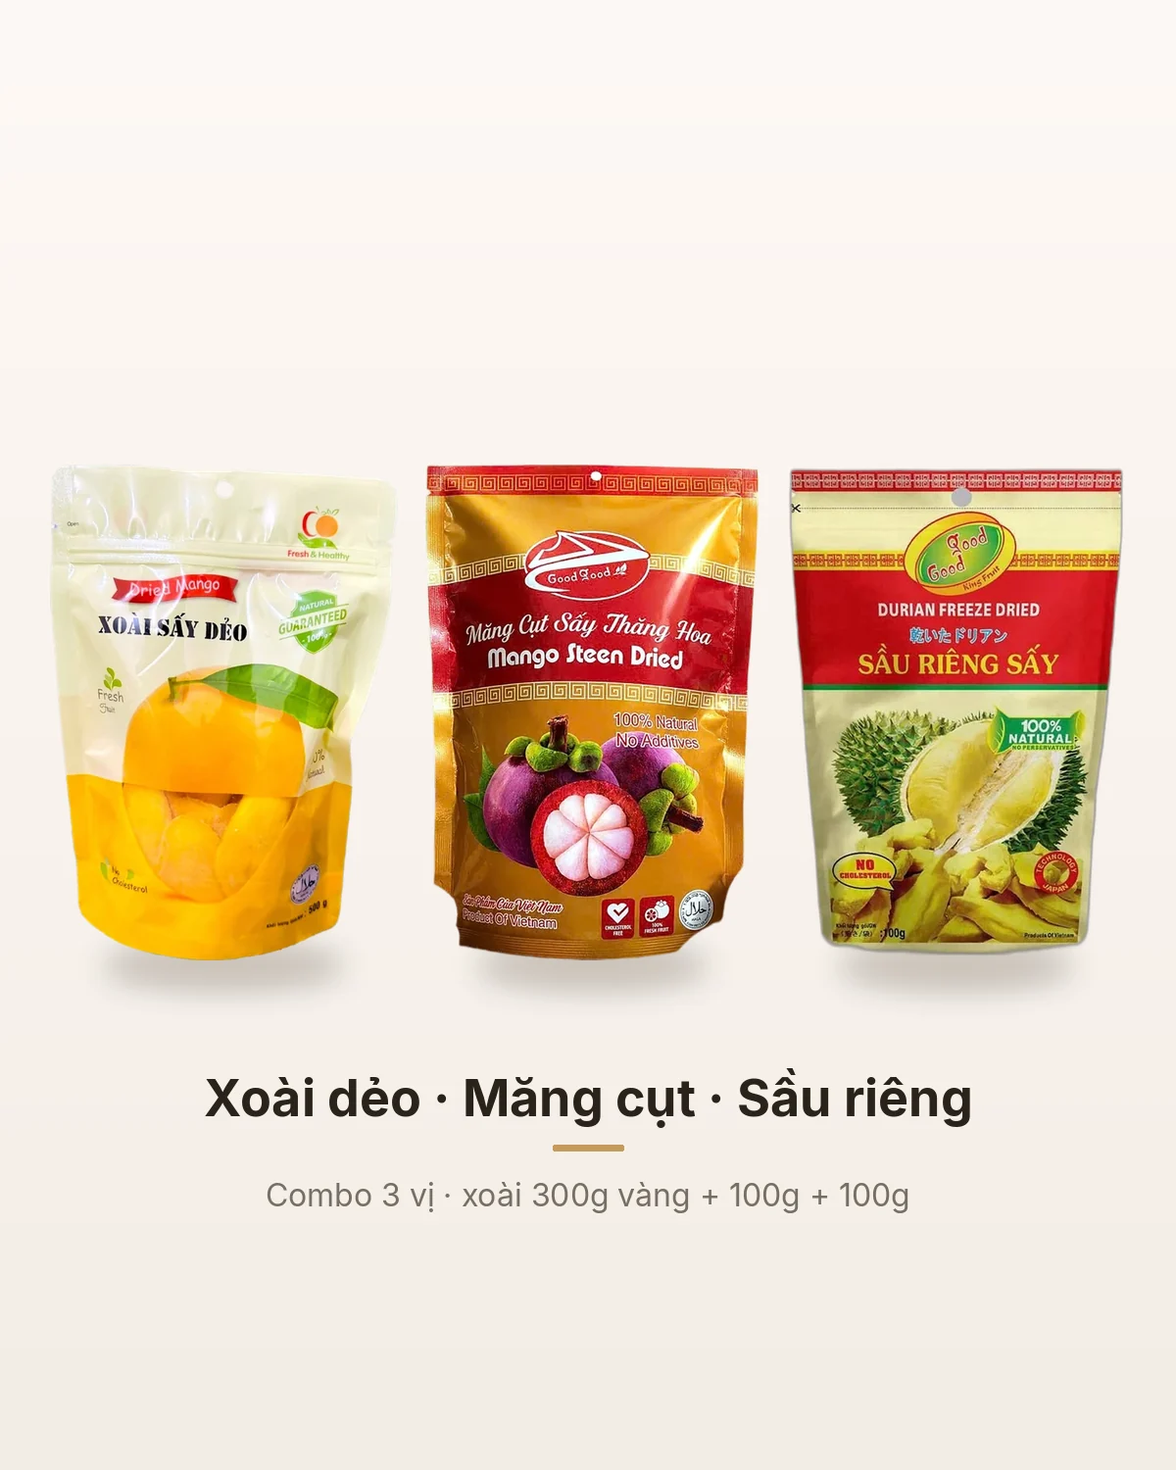
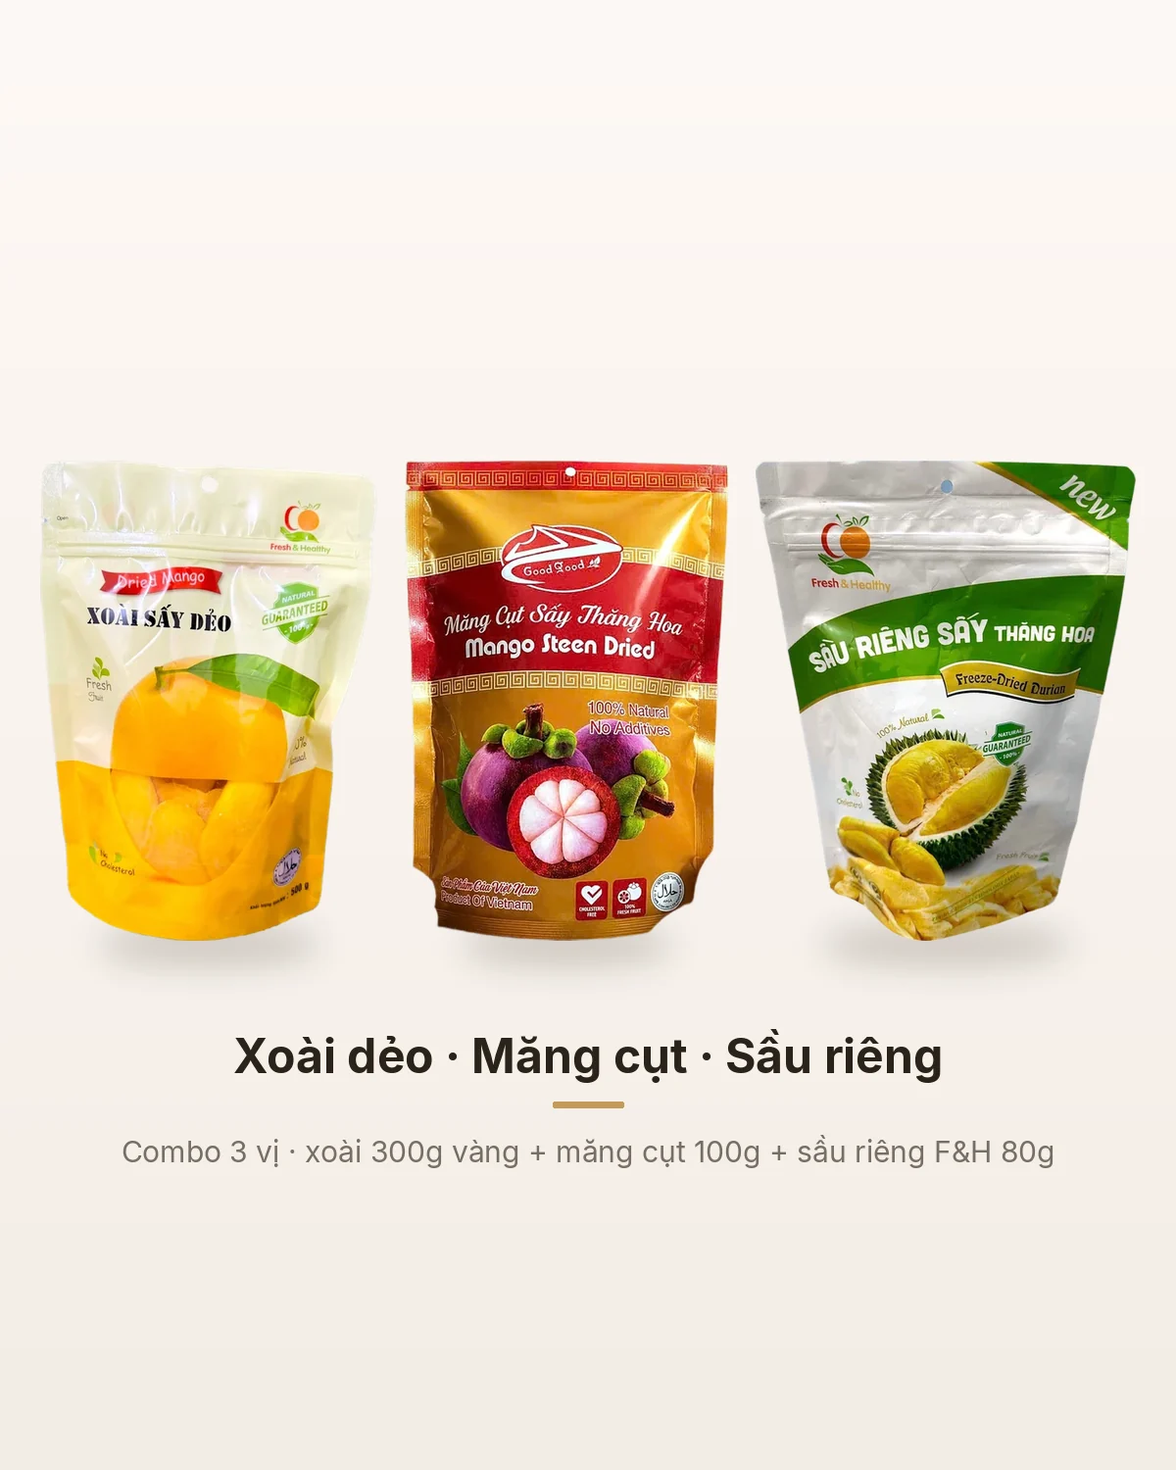
Chốt sầu riêng F&H 80g 90k và tính lại combo chứa túi này
MQ-THSR-080-FH từ 159.000đ xuống 90.000đ. Combo 3 vị xoài + măng cụt dùng túi xanh F&H này: 363/399/413 nghìn. Combo F&H 80g + 2 túi xoài GoodGood còn 239.000đ. GoodGood 110k, Yummy 199k và Cheers+ 149k giữ nguyên.

Changed region(s): [[0.0308, 0.3067, 0.9867, 0.6747], [0.1233, 0.7053, 0.8942, 0.828]]

diff --git a/js/data.js b/js/data.js
@@ -55,7 +55,7 @@ MQ.PRODUCTS = [
  {id:'xoai-say-deo',name:'Xoài sấy dẻo Fresh & Healthy',cat:'deo',fruit:'xoai',flavour:'nguyen',maker:'viza',rank:1,badge:'Bán chạy',def:'MQ-DXO-200-FHX',
   combo:{id:'combo-xoai-say-deo-100g',label:'Combo 6 túi 100g — 259.000đ'},
   related:['combo-xoai-mangcut-saurieng'],
-  relatedNote:'Combo 3 vị xoài dẻo (trắng hoặc vàng) + măng cụt thăng hoa 100g + sầu riêng sấy 100g: 381.000đ (xoài 100g vàng), 417.000đ (xoài 200g) hoặc 431.000đ (xoài 300g).',
+  relatedNote:'Combo 3 vị xoài dẻo (trắng hoặc vàng) + măng cụt thăng hoa 100g + sầu riêng thăng hoa Fresh & Healthy 80g: 363.000đ (xoài 100g vàng), 399.000đ (xoài 200g) hoặc 413.000đ (xoài 300g).',
   pknote:'Cùng khối lượng – cùng giá ở mọi mẫu bao bì. Túi trắng trong và túi kem đáy vàng có ở 200g (89.000đ) và 300g (105.000đ). (Túi 500g cũng có, 149.000đ.) Mẫu Trắng trong: nhãn không in khối lượng, xếp theo cỡ túi.',
   packs:{xanh:{name:'Xanh lá – trắng',c:['#8cc63f','#f7f7f2']},dayxanh:{name:'Trắng – đáy xanh',c:['#f7f7f2','#3fae3a']},vang:{name:'Kem – đáy vàng',c:['#f3ecd2','#f2b705']},trong:{name:'Trắng trong',c:['#ffffff','#f0c64a']},hongcam:{name:'Hồng – cam',c:['#f6cfc4','#ef8a3a']}},
   variants:[VP('xanh','MQ-DXO-100-FHX','100g',100,'fh',49000,'fhx-xanh'),VP('dayxanh','MQ-DXO-100-FHG','100g',100,'fh',49000,'fhx-dayxanh-100r','fhx-dayxanh-100'),VP('hongcam','MQ-DXO-100-FHH','100g',100,'fh',49000,'fhx-hongcam'),VP('vang','MQ-DXO-100-FHV','100g',100,'fh',49000,'fhx-vang-100'),
@@ -103,9 +103,6 @@ MQ.PRODUCTS = [
   short:'Xoài sấy thăng hoa giòn xốp, tan nhẹ trong miệng, giữ màu và hương xoài gần như tươi.',
   long:'Công nghệ sấy thăng hoa rút nước ở nhiệt độ rất thấp, nhờ vậy miếng xoài giữ được màu sắc, hình dáng và hương vị tự nhiên, cho cảm giác giòn tan rất lạ miệng.'},
  {id:'sau-rieng-say-goodgood',name:'Sầu riêng sấy GoodGood',cat:'gion',fruit:'saurieng',flavour:'nguyen',maker:'viza',rank:5,badge:'Cao cấp',
-  combo:{id:'combo-xoai-mangcut-saurieng',label:'Combo 3 vị xoài + măng cụt + sầu riêng — từ 381.000đ'},
-  related:['combo-xoai-mangcut-saurieng'],
-  relatedNote:'Ghép túi này với xoài sấy dẻo Fresh & Healthy và măng cụt thăng hoa 100g: combo 381.000đ / 417.000đ / 431.000đ tùy túi xoài 100g, 200g hoặc 300g.',
   variants:[V('MQ-GSR-100-GG','100g',100,'goodgood',110000,'tsr100g','tsr100g_back')],
   taste:{ngot:5,chua:0,deo:0,gion:4},
   short:'Múi sầu riêng sấy khô giòn, béo thơm, ít mùi hơn sầu riêng tươi — túi GoodGood 100g tiện mang theo.',
@@ -128,7 +125,10 @@ MQ.PRODUCTS = [
   short:'Múi sầu riêng sấy thăng hoa giòn xốp, béo thơm, ít mùi hơn sầu riêng tươi — "vua trái cây" tiện mang theo.',
   long:'Sầu riêng chín được sấy thăng hoa để giữ trọn vị béo ngọt và màu vàng tự nhiên. Miếng sầu riêng giòn xốp, tan trong miệng; túi kín, dễ mang đi du lịch hay làm quà biếu.'},
  {id:'sau-rieng-say-thang-hoa-fh',name:'Sầu riêng sấy thăng hoa Fresh & Healthy',cat:'thanghoa',fruit:'saurieng',flavour:'nguyen',maker:'viza',rank:6,
-  variants:[V('MQ-THSR-080-FH','80g',80,'fh',159000,'fhx-saurieng80')],
+  combo:{id:'combo-xoai-mangcut-saurieng',label:'Combo 3 vị xoài + măng cụt + sầu riêng F&H — từ 363.000đ'},
+  related:['combo-xoai-mangcut-saurieng'],
+  relatedNote:'Ghép túi 80g này với xoài sấy dẻo Fresh & Healthy và măng cụt thăng hoa 100g: combo 363.000đ / 399.000đ / 413.000đ tùy túi xoài 100g, 200g hoặc 300g.',
+  variants:[V('MQ-THSR-080-FH','80g',80,'fh',90000,'fhx-saurieng80')],
   taste:{ngot:5,chua:0,deo:0,gion:5},
   short:'Sầu riêng sấy thăng hoa túi 80g dòng Fresh & Healthy: miếng giòn xốp, béo ngọt, nhãn ghi 100% Natural.',
   long:'Túi trắng xanh lá của Fresh & Healthy (Viza Food), in "Sầu Riêng Sấy Thăng Hoa · Freeze-Dried Durian", 100% Natural, Natural Guaranteed 100%, No Cholesterol. Túi zip 80g, vừa một người ăn vài bữa.',
@@ -167,9 +167,9 @@ MQ.PRODUCTS = [
   long:'Combo đóng sẵn trong túi zip trong, gồm 6 túi. Bên trong là các túi xoài sấy dẻo 100g của Viza Food: nhãn vàng GoodGood hoặc nhãn xanh Fresh & Healthy, cùng một giá.',
   desc:{intro:'Túi 100g là cỡ khách hỏi nhiều nhất: vừa một lần ăn, bỏ túi xách gọn, chia cho đồng nghiệp cũng tiện. Nên chúng tôi gom thành combo 6 túi, tính ra chừng 43.000đ một túi. Nhãn vàng GoodGood hay nhãn xanh Fresh & Healthy đều cùng giá, bạn thích màu nào chọn màu đó, hoặc trộn mỗi thứ vài túi để cả nhà nếm thử rồi tự chọn loại mình mê.',sec:[{k:'huong',h:'Trong combo có gì',p:['6 túi xoài sấy dẻo 100g đúng nhãn bạn chọn, đóng trong túi zip trong. Giá combo đã giảm sẵn nên không cộng thêm giảm theo đơn, nhưng vẫn được tính vào mức đơn để miễn phí giao và giảm cho các món lẻ khác.']},{k:'spec',h:'Thông tin combo',spec:[['Gồm','6 túi xoài sấy dẻo 100g'],['Nhãn','Vàng · GoodGood hoặc Xanh · Fresh & Healthy (Viza Food), có thể trộn'],['Giá','259.000đ / combo 6 túi (≈ 43.000đ / túi)'],['Đóng gói','Túi zip trong'],['Ngày sản xuất & HSD','In trên từng túi']]},{k:'qua',h:'Hợp để làm gì',p:['Chia quà nhỏ cho đồng nghiệp, bạn học; để sẵn trong ngăn bàn làm việc; mang theo khi đi du lịch. Mỗi túi một lần ăn, mở ra là vừa, không lo ăn dở để lâu.']}]}},
  {id:'mang-cut-say-thang-hoa-goodgood',name:'Măng cụt sấy thăng hoa GoodGood',cat:'thanghoa',fruit:'mangcut',flavour:'nguyen',maker:'viza',rank:6,badge:'Mới',
-  combo:{id:'combo-xoai-mangcut-saurieng',label:'Combo 3 vị xoài + măng cụt + sầu riêng — từ 381.000đ'},
+  combo:{id:'combo-xoai-mangcut-saurieng',label:'Combo 3 vị xoài + măng cụt + sầu riêng F&H — từ 363.000đ'},
   related:['combo-xoai-mangcut-saurieng'],
-  relatedNote:'Ghép túi này với xoài sấy dẻo Fresh & Healthy và sầu riêng sấy 100g: combo 381.000đ / 417.000đ / 431.000đ tùy túi xoài 100g, 200g hoặc 300g.',
+  relatedNote:'Ghép túi này với xoài sấy dẻo Fresh & Healthy và sầu riêng thăng hoa Fresh & Healthy 80g: combo 363.000đ / 399.000đ / 413.000đ tùy túi xoài 100g, 200g hoặc 300g.',
   variants:[V('MQ-THMC-100-GG','100g',100,'goodgood',269000,'ggx-mangcut','ggx-mangcut-poster')],
   taste:{ngot:4,chua:3,deo:0,gion:5},
   short:'Múi măng cụt trắng sấy thăng hoa giòn xốp, chua ngọt tự nhiên — túi vàng đỏ 100g dòng GoodGood, ghi 100% Natural · No Additives.',
@@ -705,9 +705,9 @@ MQ.PRODUCTS = [
   short:"Hạt dẻ cười Viza Food 100g + hạt sen sấy giòn Viza Food 100g + sầu riêng sấy GoodGood 100g (túi đỏ). 271.000đ (mua lẻ 109.000đ + 85.000đ + 110.000đ = 304.000đ).",
   long:"Hai hộp giấy hạt in tranh và một túi sầu riêng sấy: một phần quà bàn trà gọn, đẹp. Giá combo 271.000đ, tiết kiệm 33.000đ so với mua lẻ."},
 {id:"vz-mix-cb3-sr-xoai",mixed:true,comboOf:["MQ-THSR-080-FH","MQ-DXM-200-GG","MQ-DXO-200-GG"],related:["sau-rieng-say-thang-hoa-fh","xoai-say-deo-muoi-ot-goodgood","xoai-say-deo-goodgood"],fit45:["products/vz/vz-mix-cb3sx-anh.webp"],photos:[["products/fhx-saurieng80","Sầu riêng F&H","Túi sầu riêng sấy thăng hoa Fresh & Healthy 80g"],["products/ggx-mo200","Muối ớt","Túi xoài sấy dẻo muối ớt GoodGood 200g"],["products/ggx-200","Xoài dẻo","Túi xoài sấy dẻo GoodGood 200g"]],name:"Combo sầu riêng thăng hoa Fresh & Healthy 80g + 2 túi xoài GoodGood 200g",cat:'thanghoa',fruit:'mix',flavour:'mix',maker:'viza',rank:69,badge:"Combo",
-  variants:[V("VZ-MIX-CB3SX-480","80g + 200g + 200g",480,'fh',300000,'vz/vz-mix-cb3sx-anh.webp')],
-  short:"Sầu riêng sấy thăng hoa Fresh & Healthy 80g + xoài sấy dẻo muối ớt GoodGood 200g + xoài sấy dẻo GoodGood 200g. 300.000đ (mua lẻ 159.000đ + 89.000đ + 89.000đ = 337.000đ).",
-  long:"Một túi sầu riêng thăng hoa giòn xốp làm điểm nhấn, thêm hai túi xoài dẻo GoodGood: một muối ớt, một nguyên vị. Gói sẵn là thành quà. Giá combo 300.000đ, tiết kiệm 37.000đ so với mua lẻ."},
+  variants:[V("VZ-MIX-CB3SX-480","80g + 200g + 200g",480,'fh',239000,'vz/vz-mix-cb3sx-anh.webp')],
+  short:"Sầu riêng sấy thăng hoa Fresh & Healthy 80g + xoài sấy dẻo muối ớt GoodGood 200g + xoài sấy dẻo GoodGood 200g. 239.000đ (mua lẻ 90.000đ + 89.000đ + 89.000đ = 268.000đ).",
+  long:"Một túi sầu riêng thăng hoa giòn xốp làm điểm nhấn, thêm hai túi xoài dẻo GoodGood: một muối ớt, một nguyên vị. Gói sẵn là thành quà. Giá combo 239.000đ, tiết kiệm 29.000đ so với mua lẻ."},
 {id:"vz-mix-cb-ch-mit",mixed:true,comboOf:["MQ-THSR-110-CH","MQ-GMI-300-FH"],related:["sau-rieng-say-thang-hoa-cheers","mit-say-gion"],fit45:["products/vz/vz-mix-cb2cm-anh.webp"],photos:[["products/chx-saurieng110","Sầu riêng Cheers+","Túi sầu riêng sấy thăng hoa Cheers+ 105g"],["products/fhx-mit300","Mít sấy","Túi mít sấy giòn Fresh & Healthy 200g"]],name:"Combo sầu riêng thăng hoa Cheers+ 105g + mít sấy giòn 200g",cat:'thanghoa',fruit:'mix',flavour:'nguyen',maker:'viza',rank:70,badge:"Combo",
   variants:[V("VZ-MIX-CB2CM-305","105g + 200g",305,'cheers',210000,'vz/vz-mix-cb2cm-anh.webp')],
   short:"1 túi sầu riêng sấy thăng hoa Cheers+ 105g + 1 túi mít sấy giòn Fresh & Healthy 200g. 210.000đ (mua lẻ 149.000đ + 74.000đ = 223.000đ).",
@@ -716,17 +716,17 @@ MQ.PRODUCTS = [
   variants:[V("VZ-MIX-CB4KF-500","100g + 100g + 200g + 100g",500,'fh',241000,'vz/vz-mix-cb4kf-anh.webp')],
   short:"Sầu riêng sấy KITA 100g + xoài sấy dẻo Fresh & Healthy 100g (túi kem đáy vàng) + mít sấy giòn Fresh & Healthy 200g + xoài sấy dẻo muối ớt Fresh & Healthy 100g (túi đỏ). 241.000đ (mua lẻ 99.000đ + 49.000đ + 74.000đ + 49.000đ = 271.000đ).",
   long:"Bốn túi bốn kiểu: sầu riêng sấy giòn béo, xoài dẻo ngọt, mít giòn thơm và xoài muối ớt mặn cay. Đủ cho cả nhà chia nhau hoặc mang đi chơi. Giá combo 241.000đ, tiết kiệm 30.000đ so với mua lẻ."},
- {id:'combo-xoai-mangcut-saurieng',mixed:true,comboOf:['MQ-DXO-200-FHV','MQ-THMC-100-GG','MQ-GSR-100-GG'],related:['xoai-say-deo','mang-cut-say-thang-hoa-goodgood','sau-rieng-say-goodgood'],
+ {id:'combo-xoai-mangcut-saurieng',mixed:true,comboOf:['MQ-DXO-200-FHV','MQ-THMC-100-GG','MQ-THSR-080-FH'],related:['xoai-say-deo','mang-cut-say-thang-hoa-goodgood','sau-rieng-say-thang-hoa-fh'],
   fit45:['products/vz/vz-mix-cb3xms-3tui.webp','products/vz/vz-mix-cb3xms-200t-3tui.webp','products/vz/vz-mix-cb3xms-100-3tui.webp','products/vz/vz-mix-cb3xms-300v-3tui.webp','products/vz/vz-mix-cb3xms-300t-3tui.webp'],
-  photos:[['products/fhx-vang','Xoài vàng','Túi xoài sấy dẻo Fresh & Healthy, túi kem đáy vàng'],['products/fhx-vang-100-45.jpg','Xoài 100g','Túi xoài sấy dẻo Fresh & Healthy 100g, túi kem đáy vàng'],['products/fhx-trong','Xoài trắng','Túi xoài sấy dẻo Fresh & Healthy, túi trắng trong'],['products/ggx-mangcut','Măng cụt','Túi măng cụt sấy thăng hoa GoodGood 100g'],['products/tsr100g','Sầu riêng','Túi sầu riêng sấy GoodGood 100g']],
+  photos:[['products/fhx-vang','Xoài vàng','Túi xoài sấy dẻo Fresh & Healthy, túi kem đáy vàng'],['products/fhx-vang-100-45.jpg','Xoài 100g','Túi xoài sấy dẻo Fresh & Healthy 100g, túi kem đáy vàng'],['products/fhx-trong','Xoài trắng','Túi xoài sấy dẻo Fresh & Healthy, túi trắng trong'],['products/ggx-mangcut','Măng cụt','Túi măng cụt sấy thăng hoa GoodGood 100g'],['products/fhx-saurieng80','Sầu riêng F&H','Túi sầu riêng sấy thăng hoa Fresh & Healthy 80g, túi xanh có chữ new']],
   packs:{vang:{name:'Xoài túi vàng',c:['#f3ecd2','#f2b705']},trong:{name:'Xoài túi trắng',c:['#ffffff','#f0c64a']}},
-  pknote:'Cùng khối lượng xoài thì túi trắng và túi vàng cùng giá. Túi xoài 100g chỉ có mẫu vàng. Măng cụt thăng hoa 100g và sầu riêng sấy 100g giữ nguyên trong mọi cách ghép. Không gồm túi xoài 500g.',
-  name:'Combo 3 vị: xoài sấy dẻo + măng cụt thăng hoa 100g + sầu riêng sấy 100g',cat:'deo',fruit:'mix',flavour:'nguyen',maker:'viza',rank:60,badge:'Combo',def:'MQ-CB3-XMS-200-V',
-  variants:[VP('vang','MQ-CB3-XMS-200-V','200g + 100g + 100g',400,'fh',417000,'vz/vz-mix-cb3xms-3tui.webp'),VP('trong','MQ-CB3-XMS-200-T','200g + 100g + 100g',400,'fh',417000,'vz/vz-mix-cb3xms-200t-3tui.webp'),
-    VP('vang','MQ-CB3-XMS-100','100g + 100g + 100g',300,'fh',381000,'vz/vz-mix-cb3xms-100-3tui.webp'),
-    VP('vang','MQ-CB3-XMS-300-V','300g + 100g + 100g',500,'fh',431000,'vz/vz-mix-cb3xms-300v-3tui.webp'),VP('trong','MQ-CB3-XMS-300-T','300g + 100g + 100g',500,'fh',431000,'vz/vz-mix-cb3xms-300t-3tui.webp')],
-  short:'Xoài sấy dẻo Fresh & Healthy + măng cụt sấy thăng hoa GoodGood 100g + sầu riêng sấy GoodGood 100g. Mặc định xoài 200g (trắng hoặc vàng): 417.000đ (mua lẻ 89.000đ + 269.000đ + 110.000đ = 468.000đ, tiết kiệm 51.000đ). Xoài 100g vàng: 381.000đ (mua lẻ 428.000đ, tiết kiệm 47.000đ). Xoài 300g trắng hoặc vàng: 431.000đ (mua lẻ 484.000đ, tiết kiệm 53.000đ).',
-  long:'Ba túi nguyên bao bì: xoài sấy dẻo Fresh & Healthy (chọn túi trắng hoặc vàng ở 200g và 300g; túi 100g chỉ có mẫu vàng), măng cụt sấy thăng hoa GoodGood 100g và sầu riêng sấy GoodGood 100g. Giá combo = tổng giá lẻ của đúng ba túi × 0,89, làm tròn 1.000đ. Xoài 200g: mua lẻ 468.000đ, giá combo 417.000đ, tiết kiệm 51.000đ. Xoài 100g vàng: mua lẻ 428.000đ, giá combo 381.000đ, tiết kiệm 47.000đ. Xoài 300g: mua lẻ 484.000đ, giá combo 431.000đ, tiết kiệm 53.000đ. Túi trắng và túi vàng cùng khối lượng cùng giá. Không dùng túi xoài 500g trong combo này.'},
+  pknote:'Cùng khối lượng xoài thì túi trắng và túi vàng cùng giá. Túi xoài 100g chỉ có mẫu vàng. Măng cụt thăng hoa GoodGood 100g và sầu riêng thăng hoa Fresh & Healthy 80g giữ nguyên trong mọi cách ghép. Không gồm túi xoài 500g, không gồm sầu riêng GoodGood.',
+  name:'Combo 3 vị: xoài sấy dẻo + măng cụt thăng hoa 100g + sầu riêng sấy thăng hoa Fresh & Healthy 80g',cat:'deo',fruit:'mix',flavour:'nguyen',maker:'viza',rank:60,badge:'Combo',def:'MQ-CB3-XMS-200-V',
+  variants:[VP('vang','MQ-CB3-XMS-200-V','200g + 100g + 80g',380,'fh',399000,'vz/vz-mix-cb3xms-3tui.webp'),VP('trong','MQ-CB3-XMS-200-T','200g + 100g + 80g',380,'fh',399000,'vz/vz-mix-cb3xms-200t-3tui.webp'),
+    VP('vang','MQ-CB3-XMS-100','100g + 100g + 80g',280,'fh',363000,'vz/vz-mix-cb3xms-100-3tui.webp'),
+    VP('vang','MQ-CB3-XMS-300-V','300g + 100g + 80g',480,'fh',413000,'vz/vz-mix-cb3xms-300v-3tui.webp'),VP('trong','MQ-CB3-XMS-300-T','300g + 100g + 80g',480,'fh',413000,'vz/vz-mix-cb3xms-300t-3tui.webp')],
+  short:'Xoài sấy dẻo Fresh & Healthy + măng cụt sấy thăng hoa GoodGood 100g + sầu riêng sấy thăng hoa Fresh & Healthy 80g. Mặc định xoài 200g (trắng hoặc vàng): 399.000đ (mua lẻ 89.000đ + 269.000đ + 90.000đ = 448.000đ, tiết kiệm 49.000đ). Xoài 100g vàng: 363.000đ (mua lẻ 408.000đ, tiết kiệm 45.000đ). Xoài 300g trắng hoặc vàng: 413.000đ (mua lẻ 464.000đ, tiết kiệm 51.000đ).',
+  long:'Ba túi nguyên bao bì: xoài sấy dẻo Fresh & Healthy (chọn túi trắng hoặc vàng ở 200g và 300g; túi 100g chỉ có mẫu vàng), măng cụt sấy thăng hoa GoodGood 100g và sầu riêng sấy thăng hoa Fresh & Healthy 80g. Giá combo = tổng giá lẻ của đúng ba túi × 0,89, làm tròn 1.000đ. Xoài 200g: mua lẻ 448.000đ, giá combo 399.000đ, tiết kiệm 49.000đ. Xoài 100g vàng: mua lẻ 408.000đ, giá combo 363.000đ, tiết kiệm 45.000đ. Xoài 300g: mua lẻ 464.000đ, giá combo 413.000đ, tiết kiệm 51.000đ. Túi trắng và túi vàng cùng khối lượng cùng giá. Không dùng túi xoài 500g và không dùng sầu riêng GoodGood 100g trong combo này.'},
 ];
 /* gộp trang trùng nhãn: cùng thương hiệu + cùng loại => 1 trang, chọn quy cách/bao bì */
 [['mqz-sau-rieng-thang-hoa-200','mqz-sau-rieng-ri6-thang-hoa',w=>'Túi lớn · '+w],['mqz-hong-say-deo-hop-xach','mqz-hong-say-deo',w=>w]].forEach(([from,to,lab])=>{

diff --git a/server/deals.js b/server/deals.js
@@ -12,11 +12,11 @@ export const COMBO_SLOTS_BY_SKU = {
   // Trộn 2 nhãn: khách ghi số túi mỗi màu, ô nào cũng nhận túi 100g của một trong hai nhãn.
   'MQ-CBX-100-MIX': Array(6).fill([GG100, FH100]),
   // Combo 3 vị xoài dẻo F&H + măng cụt thăng hoa 100g + sầu riêng sấy 100g. Cùng khối lượng xoài = cùng giá, trắng hay vàng.
-  'MQ-CB3-XMS-100': [['MQ-DXO-100-FHV'], ['MQ-THMC-100-GG'], ['MQ-GSR-100-GG']],
-  'MQ-CB3-XMS-200-T': [['MQ-DXO-200-FHT'], ['MQ-THMC-100-GG'], ['MQ-GSR-100-GG']],
-  'MQ-CB3-XMS-200-V': [['MQ-DXO-200-FHV'], ['MQ-THMC-100-GG'], ['MQ-GSR-100-GG']],
-  'MQ-CB3-XMS-300-T': [['MQ-DXO-300-FHT'], ['MQ-THMC-100-GG'], ['MQ-GSR-100-GG']],
-  'MQ-CB3-XMS-300-V': [['MQ-DXO-300-FHV'], ['MQ-THMC-100-GG'], ['MQ-GSR-100-GG']],
+  'MQ-CB3-XMS-100': [['MQ-DXO-100-FHV'], ['MQ-THMC-100-GG'], ['MQ-THSR-080-FH']],
+  'MQ-CB3-XMS-200-T': [['MQ-DXO-200-FHT'], ['MQ-THMC-100-GG'], ['MQ-THSR-080-FH']],
+  'MQ-CB3-XMS-200-V': [['MQ-DXO-200-FHV'], ['MQ-THMC-100-GG'], ['MQ-THSR-080-FH']],
+  'MQ-CB3-XMS-300-T': [['MQ-DXO-300-FHT'], ['MQ-THMC-100-GG'], ['MQ-THSR-080-FH']],
+  'MQ-CB3-XMS-300-V': [['MQ-DXO-300-FHV'], ['MQ-THMC-100-GG'], ['MQ-THSR-080-FH']],
 };
 
 function skuIndex(catalog) {

diff --git a/server/selfcheck.js b/server/selfcheck.js
@@ -888,7 +888,7 @@ test('danh mục có nút thêm vào giỏ đúng mã cửa hàng; cửa hàng d
       assert.match(xmx, /vz-gg-cb2xm-2tui\.webp/);
       const byId = new Map(shopAll.map((p) => [p.id, p]));
       assert.equal(byId.get('vz-mix-cb3-sr-xoai').comboOf.join(','), ['MQ-THSR-080-FH', 'MQ-DXM-200-GG', 'MQ-DXO-200-GG'].join(','));
-      assert.equal(byId.get('vz-mix-cb3-sr-xoai').variants[0].price, 300000);
+      assert.equal(byId.get('vz-mix-cb3-sr-xoai').variants[0].price, 239000);
       assert.equal(byId.get('vz-mix-cb4-kita-fh').comboOf.join(','), ['MQ-GSR-100-KT', 'MQ-DXO-100-FHV', 'MQ-GMI-300-FH', 'MQ-DXM-100-FHR'].join(','));
       assert.equal(byId.get('vz-mix-cb4-kita-fh').variants[0].price, 241000);
       assert.equal(byId.get('vz-mix-cb-ch-mit').comboOf.join(','), ['MQ-THSR-110-CH', 'MQ-GMI-300-FH'].join(','));

diff --git a/research/bang-gia.md b/research/bang-gia.md
@@ -28,15 +28,17 @@ nếu 3+ món:  giá_combo ≈ tổng_lẻ × 0,89
 làm tròn tới 1.000đ
 ```
 
-Ví dụ đã chốt 7/11/2026 (combo 3 vị xoài dẻo + măng cụt thăng hoa 100g + sầu riêng sấy GoodGood 100g):
+Ví dụ đã chốt 7/11/2026 (combo 3 vị xoài dẻo + măng cụt thăng hoa 100g + sầu riêng sấy thăng hoa Fresh & Healthy 80g). Sầu riêng trong combo này là túi xanh F&H `MQ-THSR-080-FH` = **90.000đ** (chủ shop chốt 7/11/2026, đổi từ 159.000đ). Không dùng sầu riêng GoodGood 100g (110.000đ), không dùng Yummy 105g (199.000đ) hay Cheers+ 105g (149.000đ).
 
 | Cách ghép | Tổng lẻ | × 0,89 | Giá combo |
 |---|---:|---:|---:|
-| Xoài 100g (49k) + măng cụt 100g (269k) + sầu riêng 100g (110k) | 428.000 | 380.920 | **381.000** |
-| Xoài 200g (89k, trắng hoặc vàng) + măng cụt 100g + sầu riêng 100g | 468.000 | 416.520 | **417.000** |
-| Xoài 300g (105k, trắng hoặc vàng) + măng cụt 100g + sầu riêng 100g | 484.000 | 430.760 | **431.000** |
+| Xoài 100g (49k) + măng cụt 100g (269k) + sầu riêng F&H 80g (90k) | 408.000 | 363.120 | **363.000** |
+| Xoài 200g (89k, trắng hoặc vàng) + măng cụt 100g + sầu riêng F&H 80g | 448.000 | 398.720 | **399.000** |
+| Xoài 300g (105k, trắng hoặc vàng) + măng cụt 100g + sầu riêng F&H 80g | 464.000 | 412.960 | **413.000** |
 
 Không đưa túi xoài 500g (149k) vào các combo này. Túi 500g chỉ ghi thêm trên trang xoài (đã bán 149.000đ).
+
+Combo đã có `VZ-MIX-CB3SX-480` (F&H 80g + xoài muối ớt GoodGood 200g + xoài dẻo GoodGood 200g) tính lại theo 90k: 90 + 89 + 89 = 268.000 × 0,89 = 238.520 → **239.000đ**.
 
 ## Xoài sấy dẻo Fresh & Healthy — túi trắng / túi vàng
 
@@ -62,4 +64,5 @@ Giữ nguyên **259.000đ**. Ba lựa chọn: vàng GoodGood (`MQ-CBX-100-GG`), 
 
 ## Nhật ký
 
-- **7/11/2026**: Lập file từ giá đang bán trên `main` (183 mã). Thêm kế hoạch: túi xoài F&H vàng 200g (89k), trắng/vàng 300g (105k); combo 3 vị xoài + măng cụt 100g + sầu riêng 100g giá 381k / 417k / 431k tùy túi xoài 100/200/300g.
+- **7/11/2026**: Lập file từ giá đang bán trên `main` (183 mã). Thêm kế hoạch: túi xoài F&H vàng 200g (89k), trắng/vàng 300g (105k); combo 3 vị xoài + măng cụt 100g + sầu riêng.
+- **7/11/2026**: Chủ shop chốt sầu riêng thăng hoa Fresh & Healthy 80g `MQ-THSR-080-FH` = **90.000đ** (đổi từ 159.000đ). Combo 3 vị dùng túi F&H này, không dùng GoodGood 110k: giá **363.000 / 399.000 / 413.000**. Combo `VZ-MIX-CB3SX-480` tính lại **239.000đ**. GoodGood đỏ 100g vẫn 110.000đ; Yummy 105g vẫn 199.000đ; Cheers+ 105g vẫn 149.000đ.
